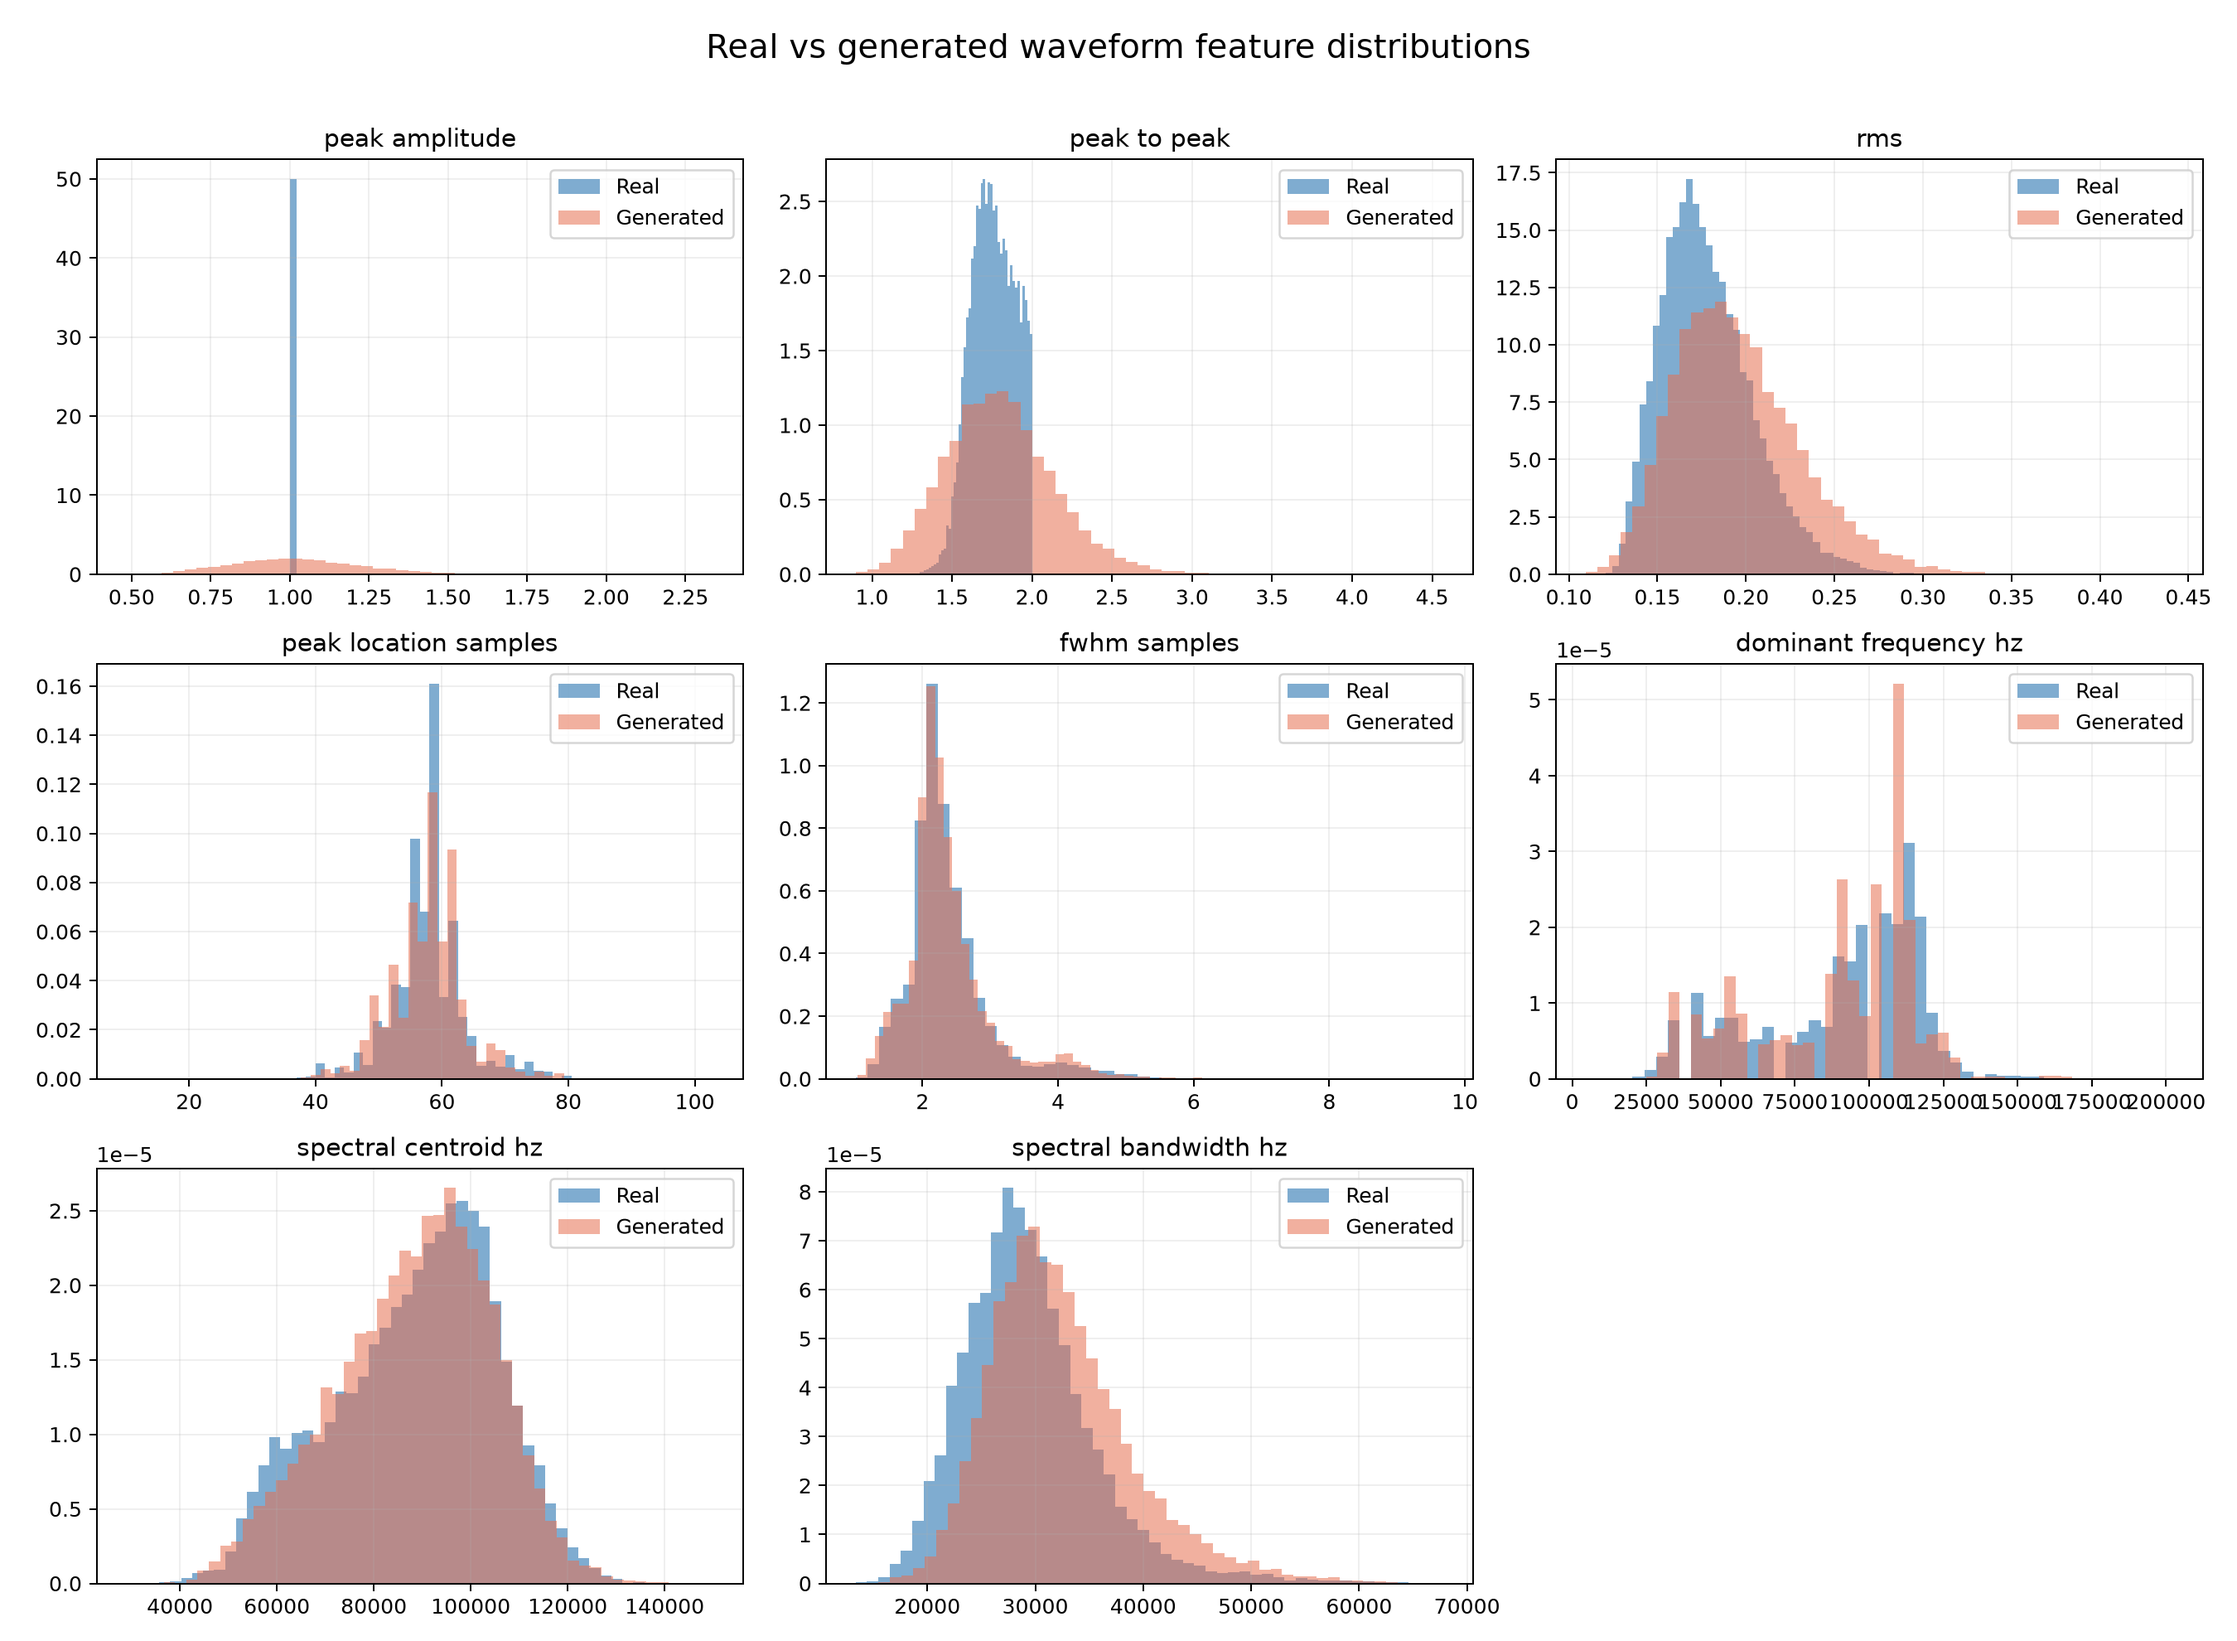
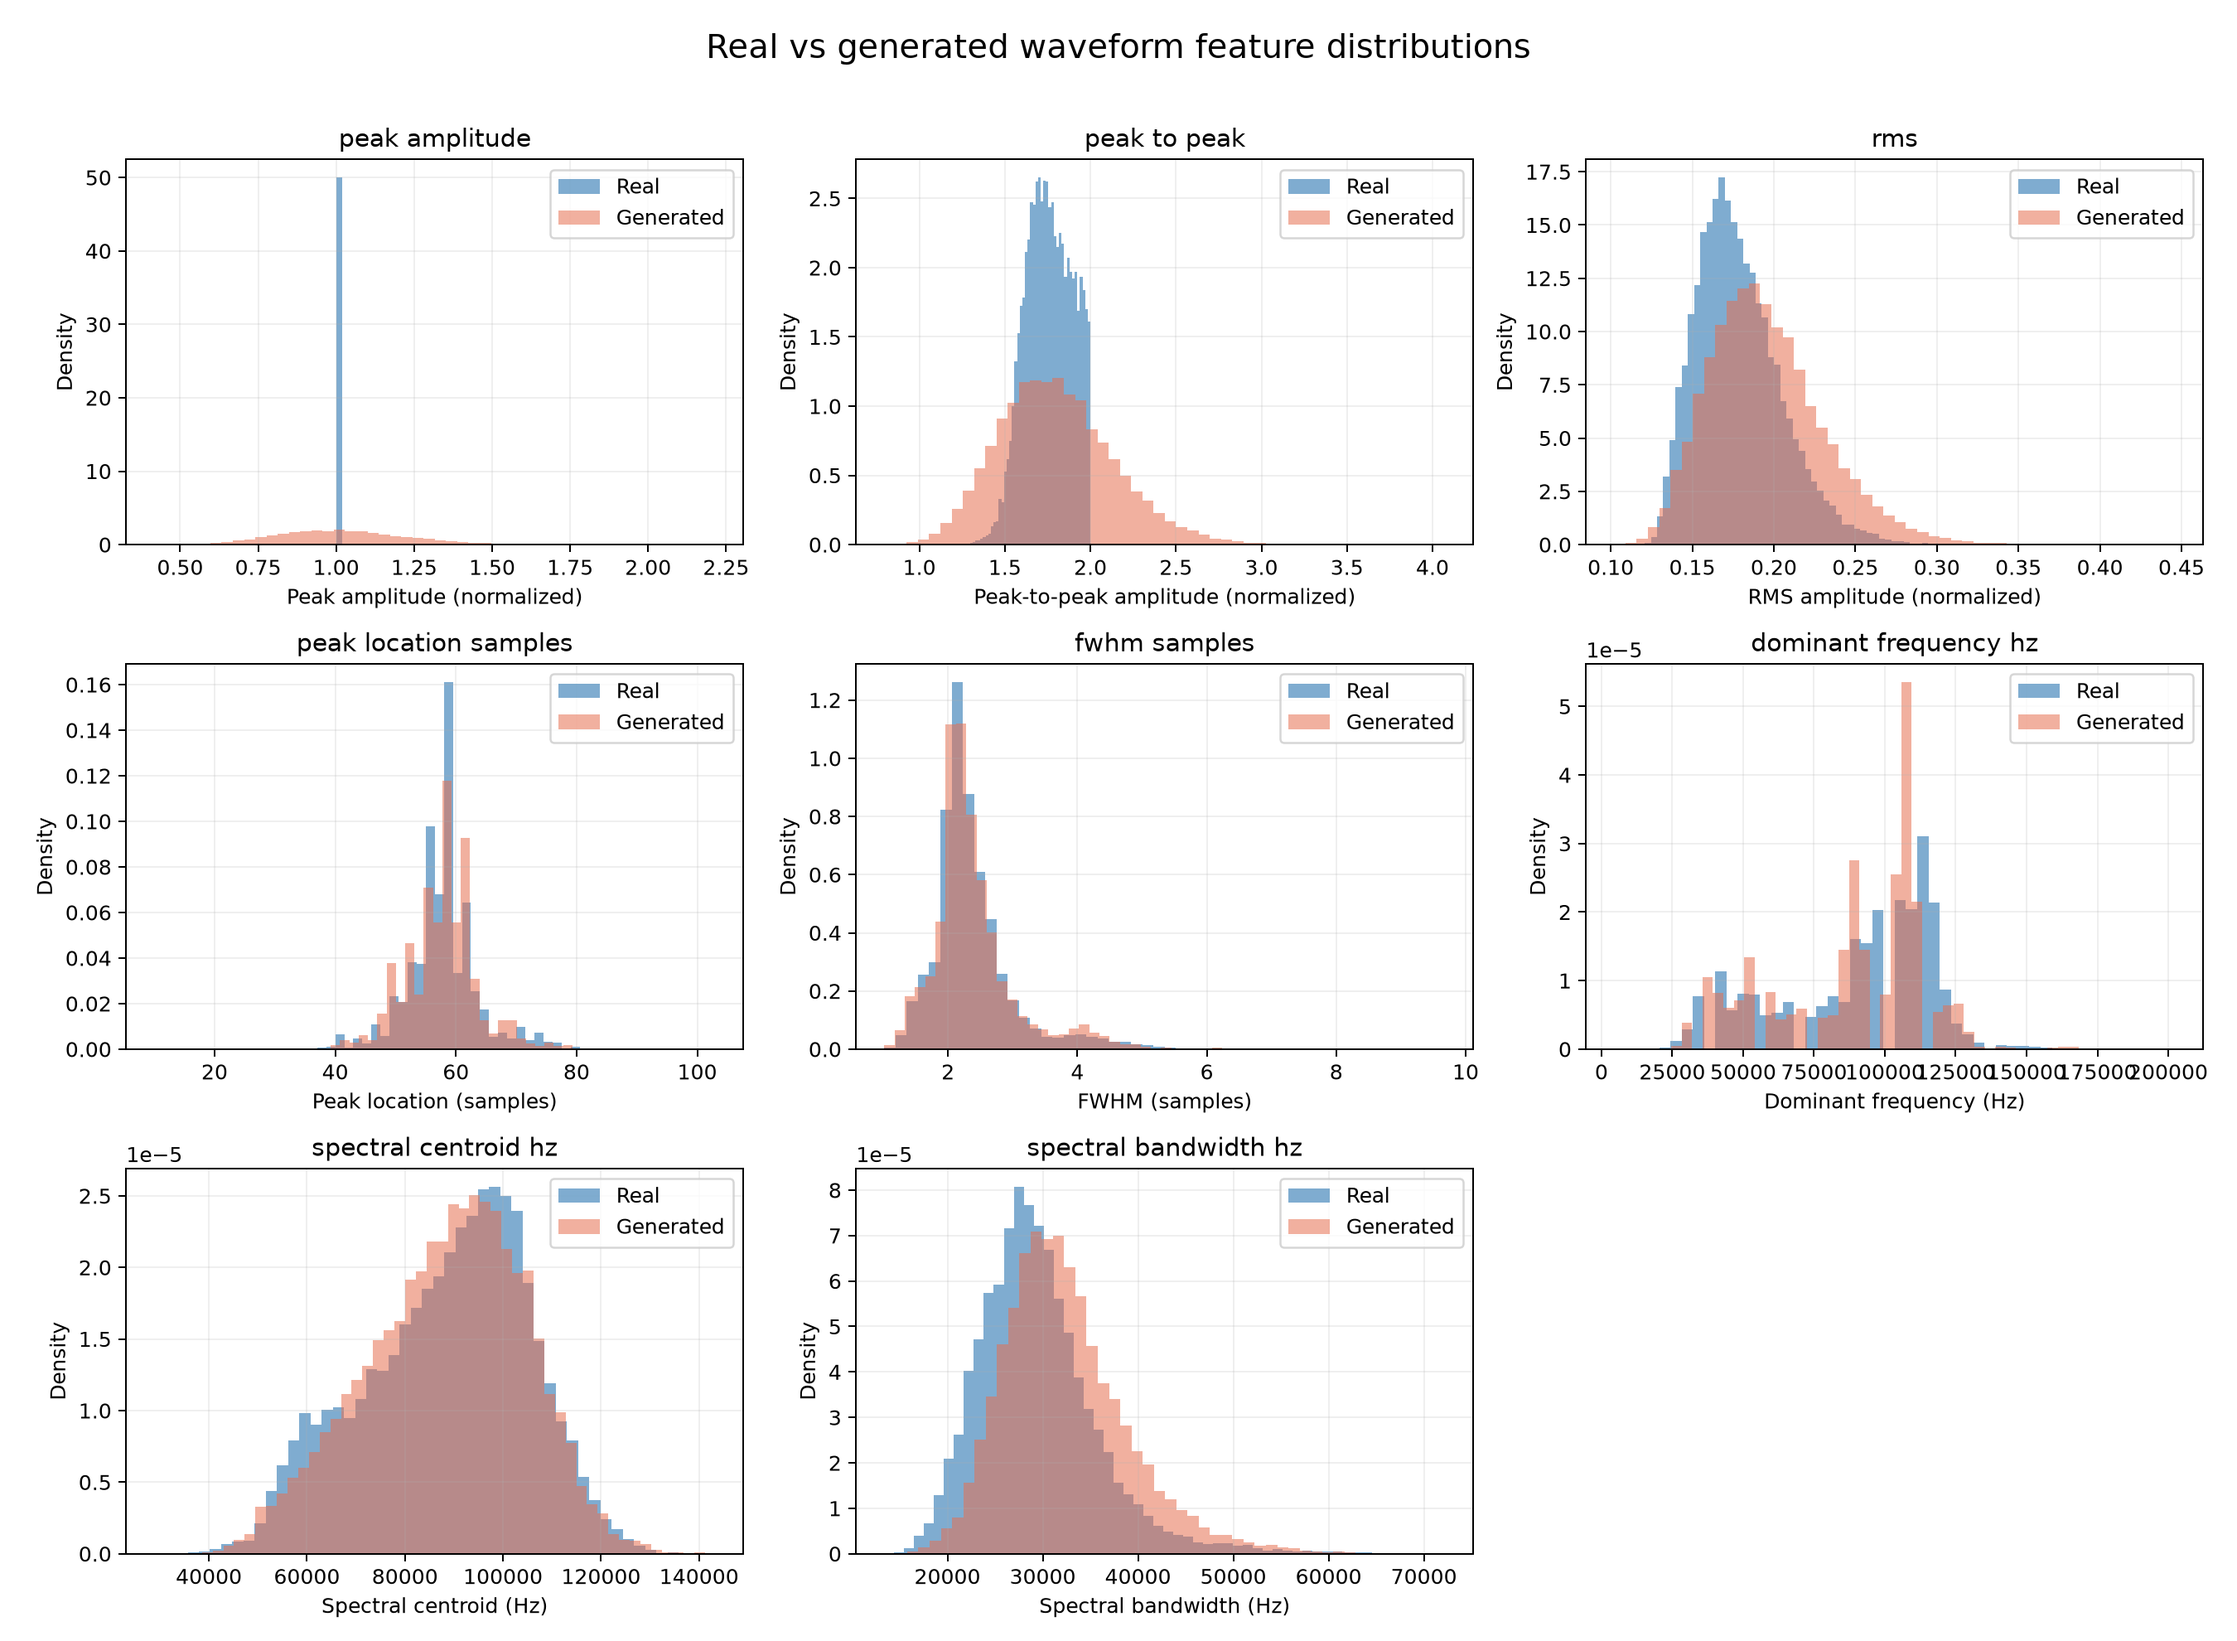
/

diff --git a/wavegan/evaluate_wavegan_torch.py b/wavegan/evaluate_wavegan_torch.py
@@ -163,11 +163,23 @@ def plot_feature_distributions(real_features, generated_features, output_path):
       'peak_amplitude', 'peak_to_peak', 'rms', 'peak_location_samples',
       'fwhm_samples', 'dominant_frequency_hz', 'spectral_centroid_hz', 'spectral_bandwidth_hz',
   ]
+  axis_labels = {
+      'peak_amplitude': 'Peak amplitude (normalized)',
+      'peak_to_peak': 'Peak-to-peak amplitude (normalized)',
+      'rms': 'RMS amplitude (normalized)',
+      'peak_location_samples': 'Peak location (samples)',
+      'fwhm_samples': 'FWHM (samples)',
+      'dominant_frequency_hz': 'Dominant frequency (Hz)',
+      'spectral_centroid_hz': 'Spectral centroid (Hz)',
+      'spectral_bandwidth_hz': 'Spectral bandwidth (Hz)',
+  }
   figure, axes = plt.subplots(3, 3, figsize=(15, 11))
   for axis, name in zip(axes.flat, feature_names):
     axis.hist(real_features[name], bins=50, density=True, alpha=0.55, label='Real', color='#1769aa')
     axis.hist(generated_features[name], bins=50, density=True, alpha=0.55, label='Generated', color='#e76f51')
     axis.set_title(name.replace('_', ' '))
+    axis.set_xlabel(axis_labels[name])
+    axis.set_ylabel('Density')
     axis.grid(alpha=0.2)
     axis.legend()
   axes.flat[-1].axis('off')
